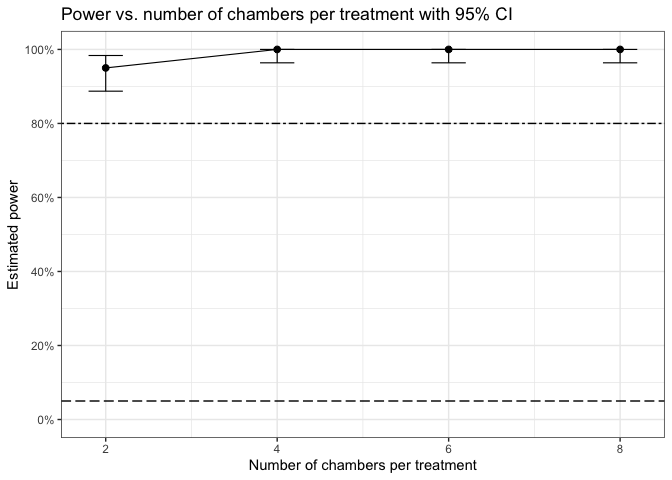
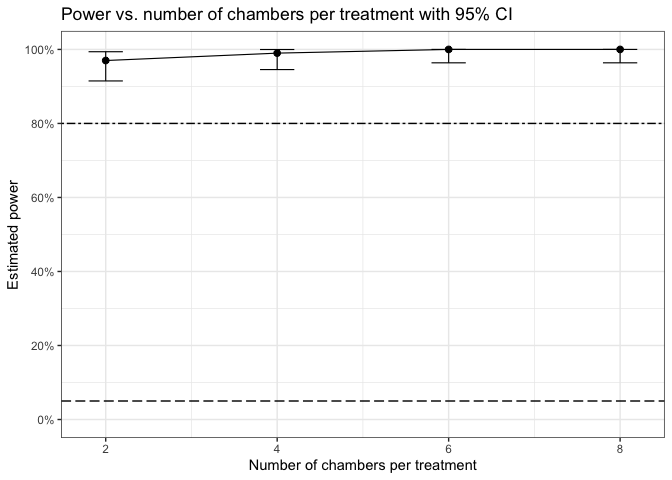
README updated 2

Changed region(s): [[0.125, 0.0938, 0.6562, 0.2188]]

diff --git a/README.md b/README.md
@@ -96,20 +96,20 @@ sim.mosquitoes <- sim.mosq.shortsfe.sinint(
 sim.mosquitoes <- sim.mosquitoes[, c(-4,-5,-6)]
 sim.mosquitoes
 #>   replicates intvn chamber mosquito.count.fixed mosquito.count.random
-#> 1          1     0     0-1                   51                    20
-#> 2          2     0     0-2                   49                    74
-#> 3          3     0     0-3                   51                    33
-#> 4          4     0     0-4                   65                    53
-#> 5          1     1     1-1                   12                     5
-#> 6          2     1     1-2                    8                    18
-#> 7          3     1     1-3                   14                    23
-#> 8          4     1     1-4                    9                     2
+#> 1          1     0     0-1                   54                    69
+#> 2          2     0     0-2                   52                    31
+#> 3          3     0     0-3                   47                    13
+#> 4          4     0     0-4                   55                    29
+#> 5          1     1     1-1                   12                    13
+#> 6          2     1     1-2                    9                     6
+#> 7          3     1     1-3                   24                    12
+#> 8          4     1     1-4                   13                    16
 ```
 
 3.  Plot the simulated mosquitoes. This function plots a box plot with
     an option to jitter points if jitter=TURE and without jittering if
     jitter=FALSE. The use.random option is also used in this function
-    with only TRUE, FALSE or NULL as explained in (ii) above
+    with only TRUE, FALSE or NULL as explained in (2) above
 
 ``` r
 sim.plot.shortsfe.sinint(
@@ -145,7 +145,7 @@ pvalue <- sim.pval.shortsfe.sinint(
 #output the p-values
 pvalue
 #>       pvalue 
-#> 7.971127e-11
+#> 3.027503e-18
 ```
 
 V. Since power cannot be estimated from a single simulation, there is a
@@ -218,8 +218,8 @@ for (i in seq_along(n.ch.values)) {
 #print the power results for each number of chambers per treatment
 round(power.df,2)
 #>   n.ch.per.trt power ci.lower ci.upper
-#> 1            2  0.95     0.89     0.98
-#> 2            4  1.00     0.96     1.00
+#> 1            2  0.97     0.91     0.99
+#> 2            4  0.99     0.95     1.00
 #> 3            6  1.00     0.96     1.00
 #> 4            8  1.00     0.96     1.00
 ```
@@ -305,23 +305,23 @@ for (i in seq_len(nrow(results))) {
 # print power estimates
 results
 #>    n.ch.per.trt interv.effect power   ci.lower  ci.upper
-#> 1             2           0.0  0.23 0.15173161 0.3248587
-#> 2             4           0.0  0.10 0.04900469 0.1762226
-#> 3             6           0.0  0.10 0.04900469 0.1762226
-#> 4             8           0.0  0.09 0.04198360 0.1639823
-#> 5             2           0.4  0.46 0.35984335 0.5625884
-#> 6             4           0.4  0.41 0.31261998 0.5128558
-#> 7             6           0.4  0.62 0.51746069 0.7152325
-#> 8             8           0.4  0.59 0.48714420 0.6873800
-#> 9             2           0.5  0.51 0.40803633 0.6113558
-#> 10            4           0.5  0.69 0.58968545 0.7787112
-#> 11            6           0.5  0.81 0.71930204 0.8815568
-#> 12            8           0.5  0.90 0.82377740 0.9509953
-#> 13            2           0.6  0.72 0.62133300 0.8052064
-#> 14            4           0.6  0.86 0.77627202 0.9212946
-#> 15            6           0.6  0.96 0.90074284 0.9889955
-#> 16            8           0.6  0.97 0.91482395 0.9937700
-#> 17            2           0.8  0.96 0.90074284 0.9889955
+#> 1             2           0.0  0.26 0.17739444 0.3573121
+#> 2             4           0.0  0.13 0.07107305 0.2120407
+#> 3             6           0.0  0.06 0.02233489 0.1260299
+#> 4             8           0.0  0.07 0.02860529 0.1389197
+#> 5             2           0.4  0.48 0.37900548 0.5822102
+#> 6             4           0.4  0.49 0.38864417 0.5919637
+#> 7             6           0.4  0.54 0.43741158 0.6401566
+#> 8             8           0.4  0.69 0.58968545 0.7787112
+#> 9             2           0.5  0.59 0.48714420 0.6873800
+#> 10            4           0.5  0.65 0.54815064 0.7427062
+#> 11            6           0.5  0.75 0.65344750 0.8312203
+#> 12            8           0.5  0.91 0.83601774 0.9580164
+#> 13            2           0.6  0.78 0.68608035 0.8566964
+#> 14            4           0.6  0.87 0.78795932 0.9289270
+#> 15            6           0.6  0.94 0.87397007 0.9776651
+#> 16            8           0.6  0.99 0.94554061 0.9997469
+#> 17            2           0.8  0.95 0.88716509 0.9835681
 #> 18            4           0.8  1.00 0.96378331 1.0000000
 #> 19            6           0.8  1.00 0.96378331 1.0000000
 #> 20            8           0.8  1.00 0.96378331 1.0000000
